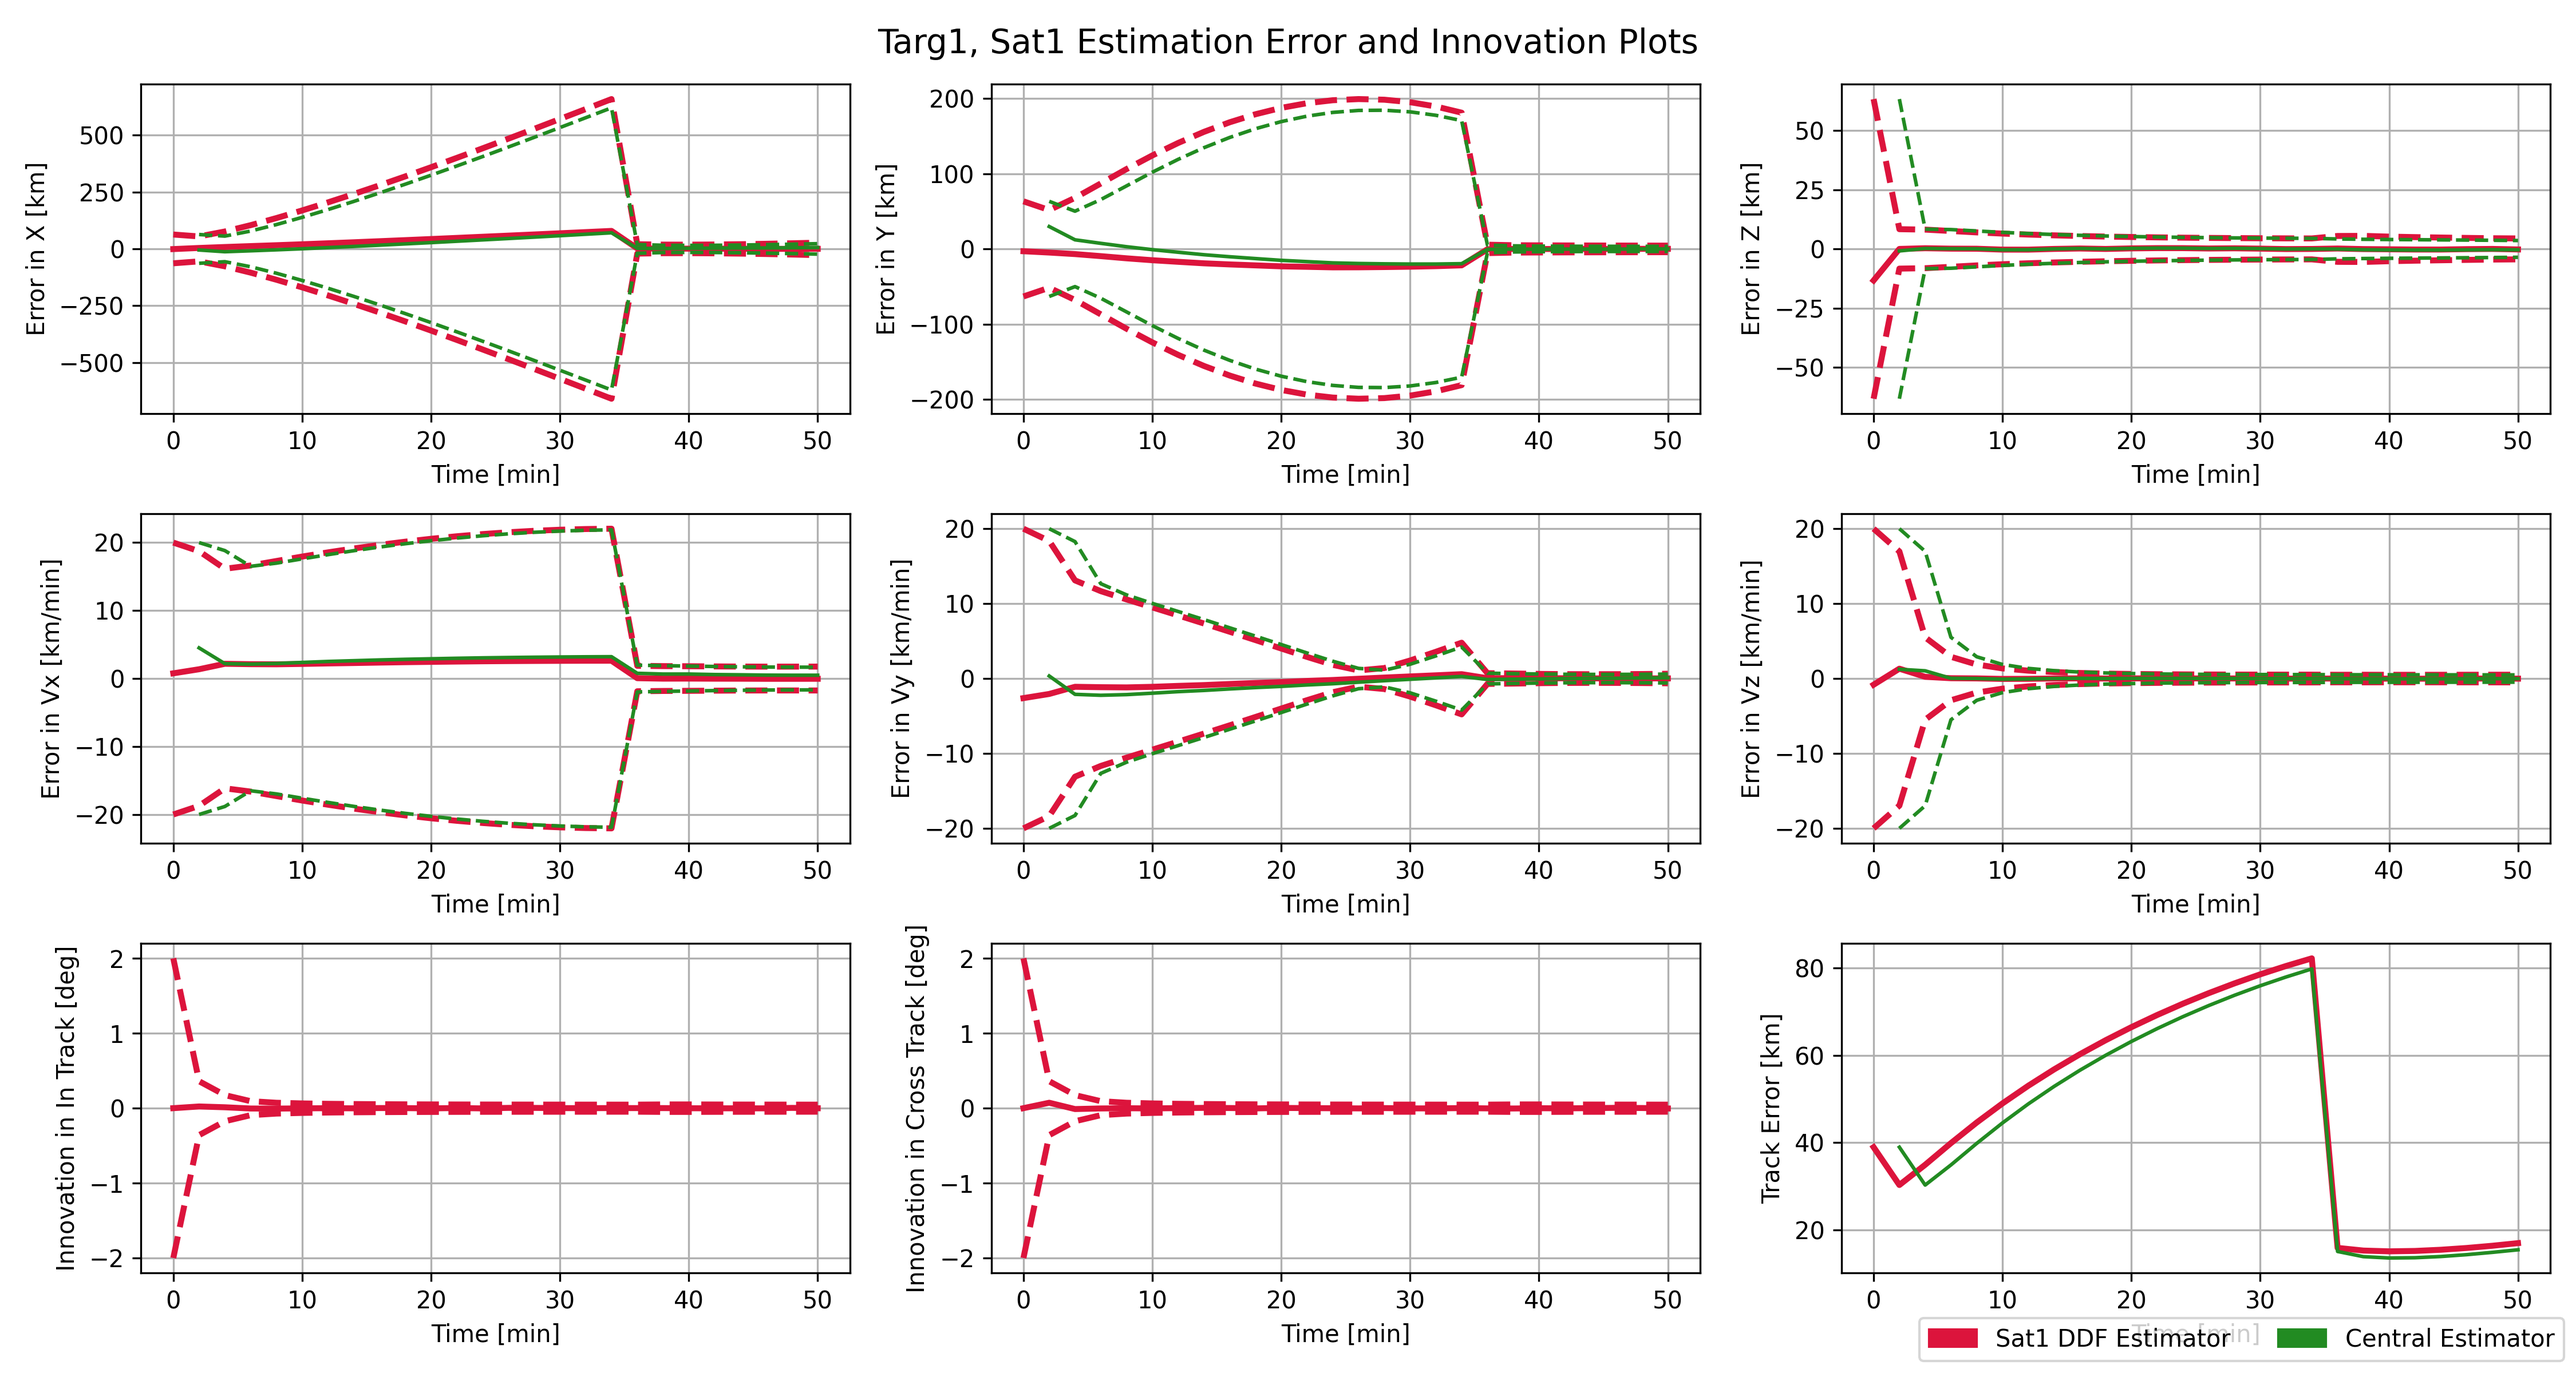
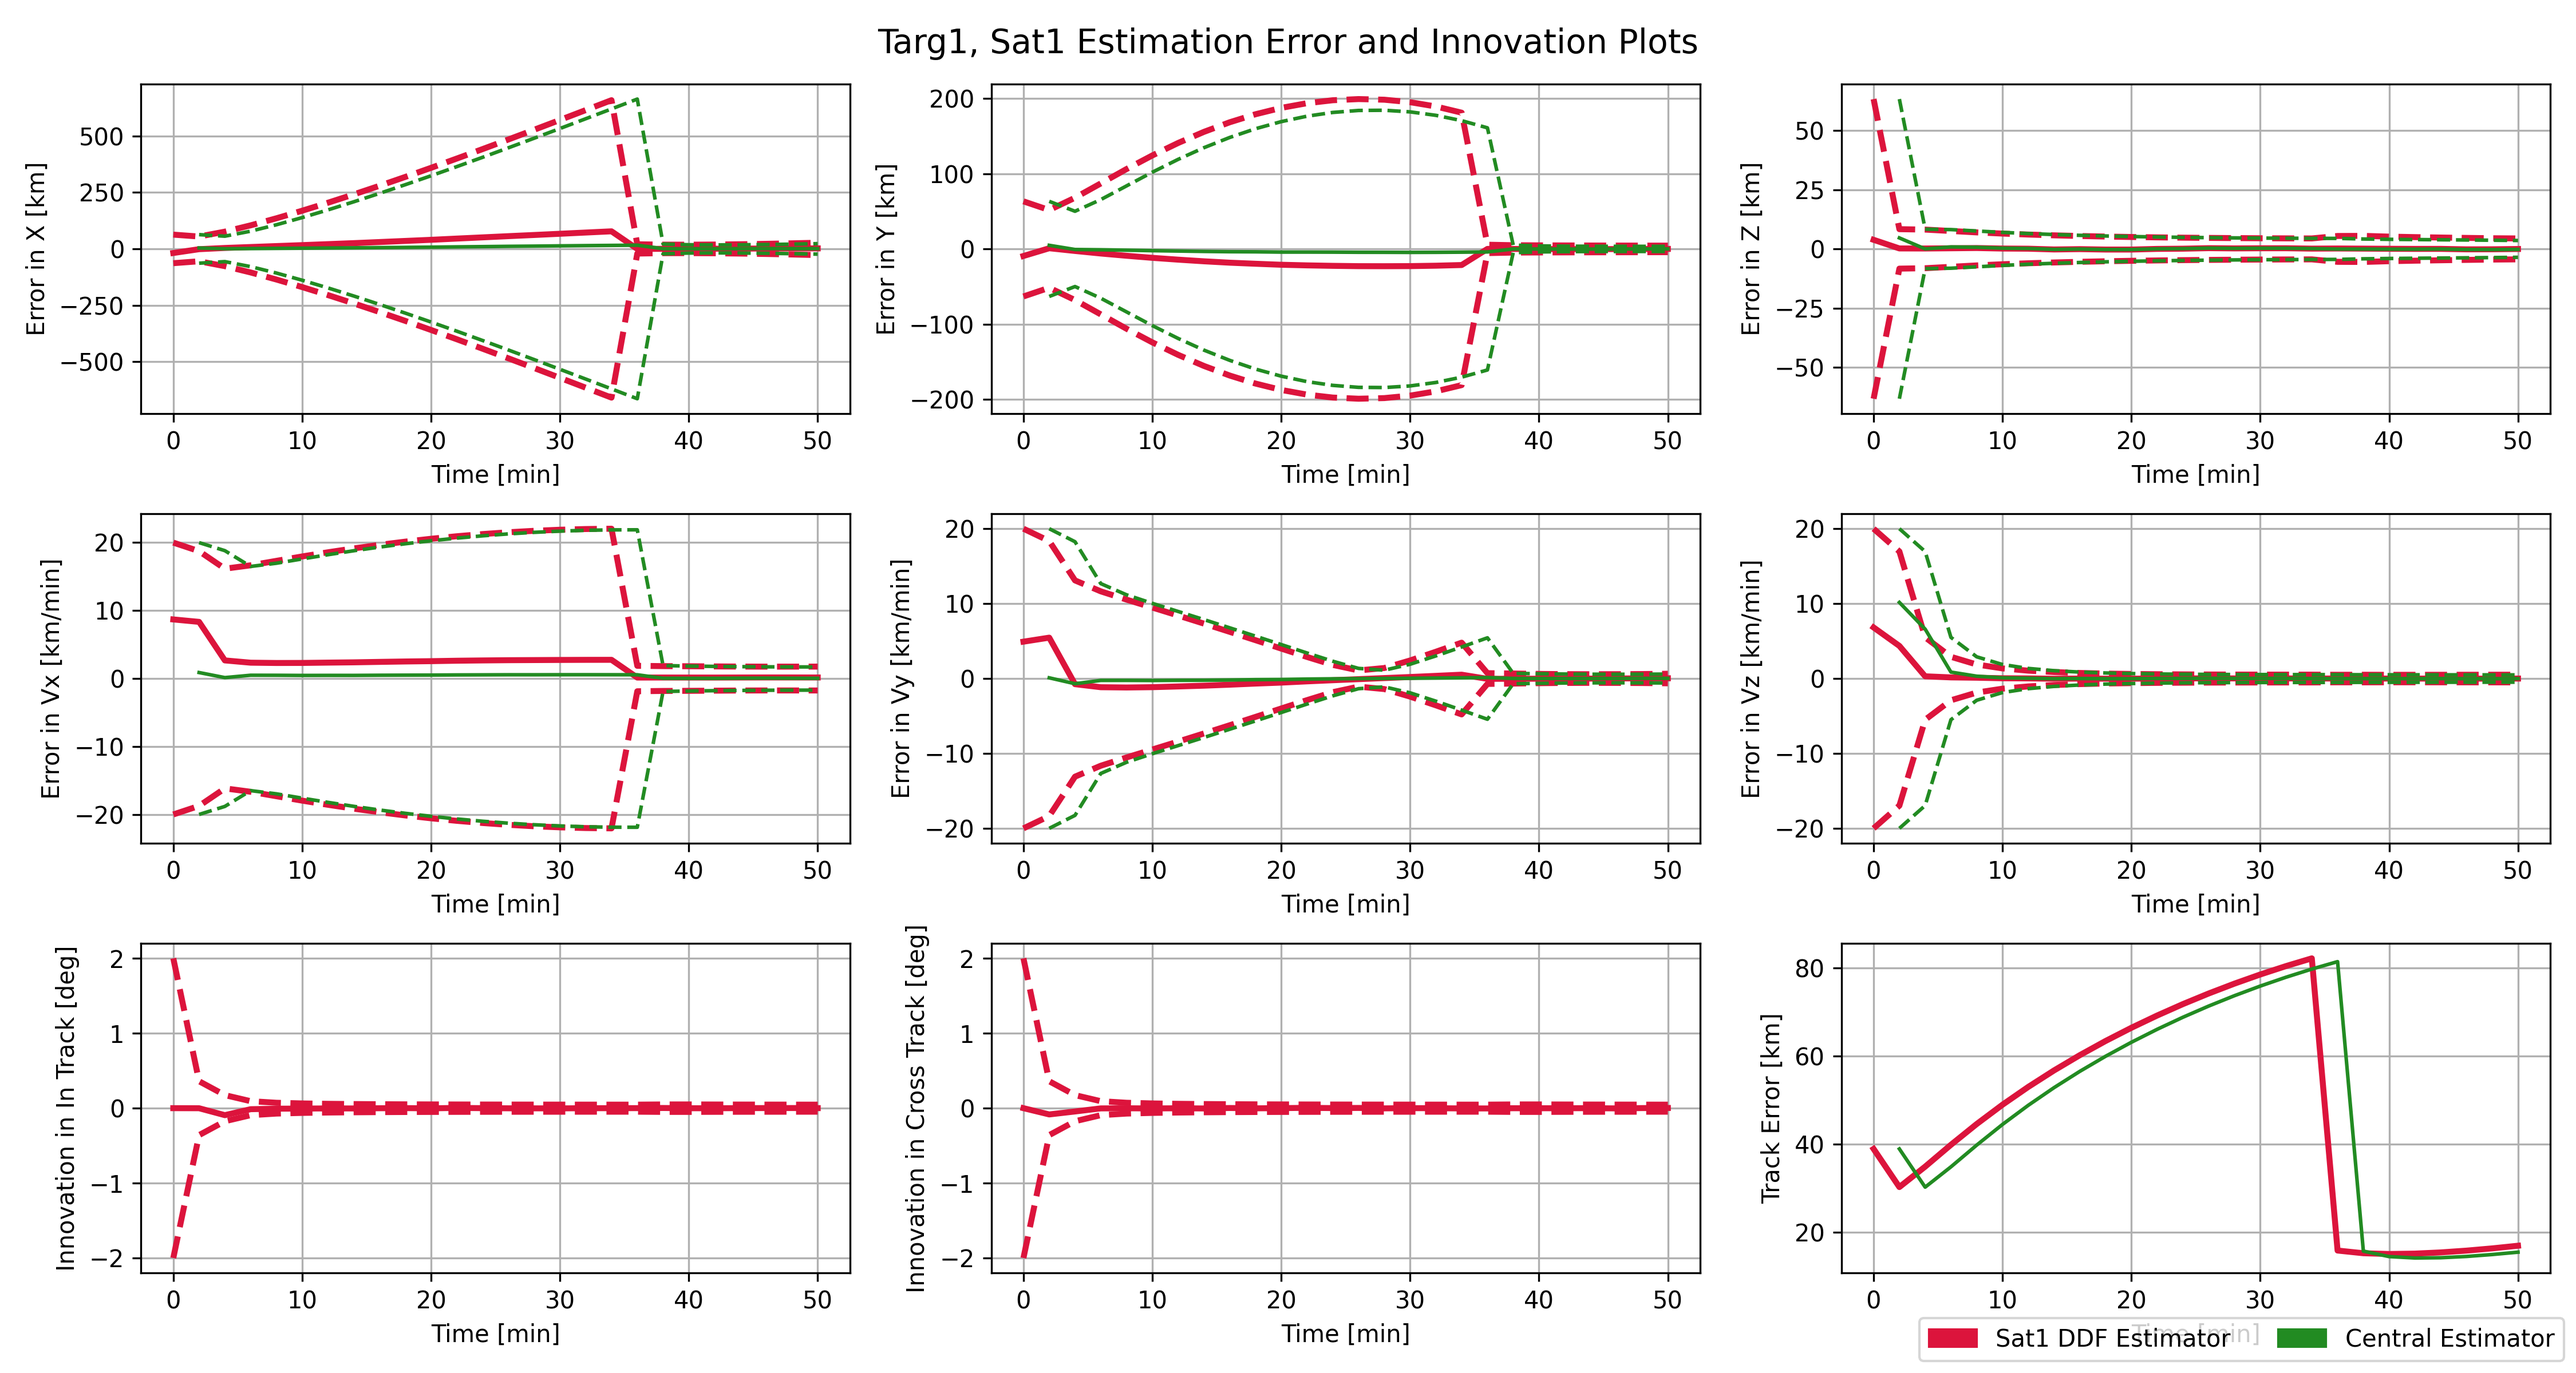
Actually made ET Robust, fixed bugs, works with 2 satellites for now

diff --git a/phase2/environmentClass.py b/phase2/environmentClass.py
@@ -162,6 +162,8 @@ class environment:
         """
         Perform data fusion by collecting measurements, performing central fusion, sending estimates, and performing covariance intersection.
         """
+        envTime = self.time.to_value()
+        
         # Collect all measurements
         collectedFlag, measurements = self.collect_all_measurements()
 
@@ -169,15 +171,15 @@ class environment:
         self.central_fusion(collectedFlag, measurements)
 
         # Now send estimates for future CI
-        self.send_information(self.targs) # TODO: Send estimates should have a twin function for send ET-Measurements
+        self.send_information(self.targs, envTime) # TODO: Send estimates should have a twin function for send ET-Measurements
 
         # Now, each satellite will perform covariance intersection on the measurements sent to it
         for sat in self.sats:
             sat.ddfEstimator.CI(sat, self.comms.G.nodes[sat])
-            sat.etEstimator.event_triggered_fusion(sat, self.time.to_value(), self.comms.G.nodes[sat])    
+            sat.etEstimator.event_triggered_fusion(sat, envTime, self.comms.G.nodes[sat])    
 
 
-    def send_information(self, targs):
+    def send_information(self, targs, envTime):
         """
         Send the most recent estimates from each satellite to its neighbors.
         """
@@ -206,25 +208,25 @@ class environment:
             # For each targetID in satellites measurement history        
             for target in targs:
                 if target.targetID in sat.measurementHist.keys():
-                    for neighbor in self.comms.G.neighbors(sat):
-                        if len(sat.measurementHist[target.targetID].keys()) > 0: # TODO: Check if this is the right condition, index with time
-                            satTime = max(sat.measurementHist[target.targetID].keys())
+                    if len(sat.measurementHist[target.targetID][envTime]) > 0:
+                        for neighbor in self.comms.G.neighbors(sat):
                             
+                            meas = sat.etEstimator.event_trigger(sat, neighbor, target.targetID, envTime)
                             self.comms.send_measurements(
                                 sat, 
                                 neighbor, 
-                                sat.measurementHist[target.targetID][satTime], 
+                                meas, 
                                 target.targetID, 
                                 satTime
                             )
                             if not sat.etEstimator.estHist[target.targetID][sat][neighbor]:
-                                sat.etEstimator.initialize_filter(sat, target, satTime, sharewith=neighbor)
+                                sat.etEstimator.initialize_filter(sat, target, envTime, sharewith=neighbor)
                                 
                             if not neighbor.etEstimator.estHist[target.targetID][neighbor][neighbor]:
-                                neighbor.etEstimator.initialize_filter(neighbor, target, satTime, sharewith=neighbor)
+                                neighbor.etEstimator.initialize_filter(neighbor, target, envTime, sharewith=neighbor)
                             
                             if not neighbor.etEstimator.estHist[target.targetID][neighbor][sat]:
-                                neighbor.etEstimator.initialize_filter(neighbor, target, satTime, sharewith=sat)
+                                neighbor.etEstimator.initialize_filter(neighbor, target, envTime, sharewith=sat)
     
 
     def propagate(self, time_step):
@@ -818,21 +820,22 @@ class environment:
             savePlot (bool): Flag indicating whether to save the plot.
             saveName (str): Name for the saved plot file.
         """
-    
-        # Plot the in-track and cross-track measurements
+        
         for sat in self.sats:
+            # Get the Communication Node
             commNode = self.comms.G.nodes[sat]
-            times = commNode['sent_measurements'].keys()
+            times = list(commNode['received_measurements'].keys())
+            targetIDs = list(commNode['received_measurements'][times[0]].keys())
+            sender = commNode['received_measurements'][times[0]][targetIDs[0]]['sender'][0]
             fig = plt.figure(figsize=(15, 8))
             gs = gridspec.GridSpec(2, 1)
             ax1 = fig.add_subplot(gs[0, 0])
             ax2 = fig.add_subplot(gs[1, 0])
+            
             for time in times:
-                for targetID in commNode['sent_measurements'][time].keys():
-                    for i in range(len(commNode['sent_measurements'][time])): # number of messages on this target?
-                        receiver = commNode['sent_measurements'][time][targetID]['receiver'][i]
-                        alpha, beta = commNode['sent_measurements'][time][targetID]['meas'][i]
-                    
+                for targetID in targetIDs:
+                    for i in range(len(commNode['received_measurements'][time][targetID]['meas'])):
+                        alpha, beta = commNode['received_measurements'][time][targetID]['meas'][i]
                         if not np.isnan(alpha):
                             ax1.scatter(time, 1, color='r')
                         else:
@@ -842,8 +845,8 @@ class environment:
                             ax2.scatter(time, 1, color='r')
                         else:
                             ax2.scatter(time, 0, color='b')
-                                
-            fig.suptitle(f"Satellite Msgs from {sat.name} to {receiver.name}", fontsize=14)
+            
+            fig.suptitle(f"Satellite Msgs from {sender.name} to {sat.name}", fontsize=14)
 
             # Label the plots
             ax1.set_xlabel("Time [min]")
@@ -868,10 +871,10 @@ class environment:
                 plotPath = os.path.join(filePath, 'plots')
                 os.makedirs(plotPath, exist_ok=True)
                 if saveName is None:
-                    plt.savefig(os.path.join(plotPath, f"Targ{targetID}_{sat.name}_{receiver.name}_et_msg.png"), dpi=300)
+                    plt.savefig(os.path.join(plotPath, f"Targ{targetID}_{sat.name}_{sender.name}_et_msg.png"), dpi=300)
                 else:
-                    plt.savefig(os.path.join(plotPath, f"{saveName}_Targ{targetID}_{sat.name}_{receiver.name}_et_msg.png"), dpi=300)
-                    
+                    plt.savefig(os.path.join(plotPath, f"{saveName}_Targ{targetID}_{sat.name}_{sender.name}_et_msg.png"), dpi=300)
+            plt.close()            
         
 ### Plot 3D Gaussian Uncertainity Ellispoids ###
     def plot_all_uncertainty_ellipses(self):

diff --git a/phase2/estimatorClass.py b/phase2/estimatorClass.py
@@ -657,7 +657,7 @@ class etEstimator(BaseEstimator):
         '''
         targetID = target.targetID
         
-        if len(sat.measurementHist[targetID]) == 0:
+        if len(sat.measurementHist[targetID][envTime]) == 0:
             return
         
         alpha, beta = sat.measurementHist[targetID][envTime]

diff --git a/phase2/main.py b/phase2/main.py
@@ -271,7 +271,7 @@ if __name__ == "__main__":
 
     ### Do formal NEES and NIS test:
     time_vec = np.linspace(0, 50, 25 + 1) * u.minute
-    fileName = "debug_"
+    fileName = "debug_1_"
     numSims = 1
     simData = defaultdict(dict)
     for i in range(numSims):
